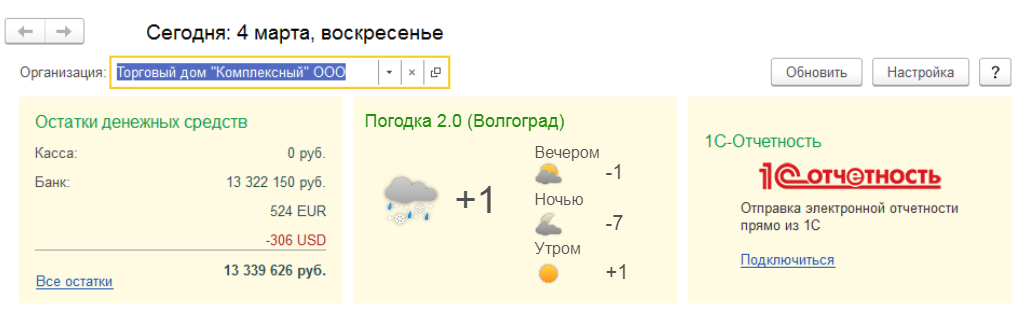
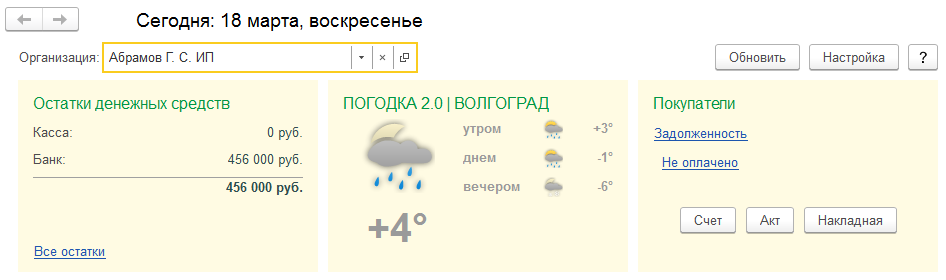
readme

diff --git a/DOC/readme.md b/DOC/readme.md
@@ -1,10 +1,18 @@
 # Погодка 2.0 Расширение для информационной панели 1С Бухгалтерия 3.0
 
+![LOGO](../PIC/LOGO/Погодка_логотип_300.png)
 ## Что это.
-Расширение конфигурации Бухгалтерия 3.0, которое сожержит виджет прогноза погоды.
+Виджет "Погодка 2.0" это блок информационной панели для конфигурации Бухгалтерия 3.0. На виджете отображается текущая погода в виде крупной картинки и прогноз на ближайшее время суток.
 
-Примерный дизайн виджета:
 ![дизайн виджета](../PIC/01.png)
+
+1. Установите расширение и отключите у него "Безопасный режим"
+2. Укажите фактический адрес вашей организации
+3. Воспользуйтесь кнопкой "Настройка", для того что бы разместить виджет на информационной панели
+4. На начальной странице выберите организацию и...
+5. Погодка 2.0 перед вам
+
+Публикация на [Инфостарт](https://infostart.ru/public/801039/)
 
 Шаблон расширения: [Vidjets_ACC30](https://github.com/infosoft-v/Vidjets_ACC30)
 
